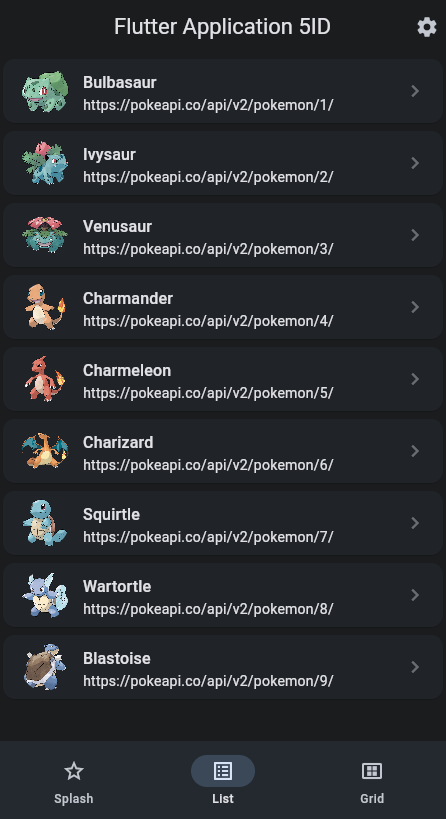
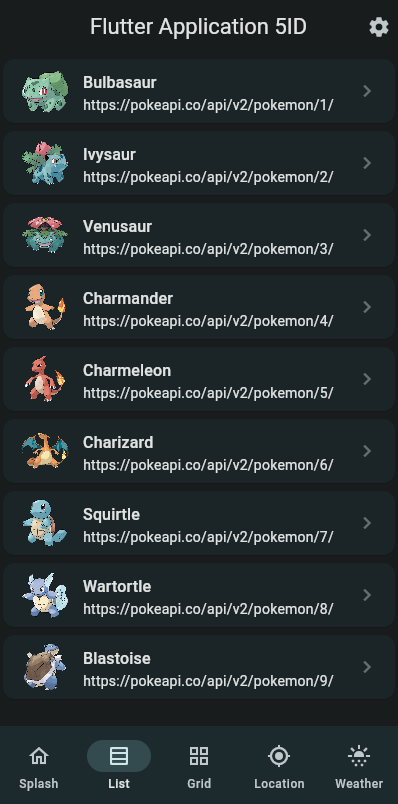
docs: Update screenshots

diff --git a/code/flutter_5id/README.md b/code/flutter_5id/README.md
@@ -14,11 +14,15 @@ Codice dell'applicazione di esempio realizzata durante la parte di demo per most
 
 ## 📱 Screenshots
 
-| Screenshot #1 | Screenshot #2 | Screenshot #3 | Screenshot #4 |
-| - | - | - | - |
-| <img src="screenshots/splash-light.png"/> | <img src="screenshots/list-light.png"/> | <img src="screenshots/grid-light.png"/> | <img src="screenshots/single-light.png"/> |
-| <img src="screenshots/splash-dark.png"/> | <img src="screenshots/list-dark.png"/> | <img src="screenshots/grid-dark.png"/> | <img src="screenshots/single-dark.png"/> |
+| Home | Lista | Griglia | 
+| - | - | - |
+| <img src="screenshots/splash-light.png"/> | <img src="screenshots/list-light.png"/> | <img src="screenshots/grid-light.png"/> |
+| <img src="screenshots/splash-dark.png"/> | <img src="screenshots/list-dark.png"/> | <img src="screenshots/grid-dark.png"/> | 
 
+| Single Page | Ip Location | Weather | 
+| - | - | - |
+| <img src="screenshots/single-light.png"/> | <img src="screenshots/ip-location-light.png"/> | <img src="screenshots/weather-light.png"/> |
+| <img src="screenshots/single-dark.png"/> | <img src="screenshots/ip-location-dark.png"/> | <img src="screenshots/weather-dark.png"/> |
 ## 💎 Contributing
 
 If you have any idea, feel free to fork it and submit your changes back to me.
